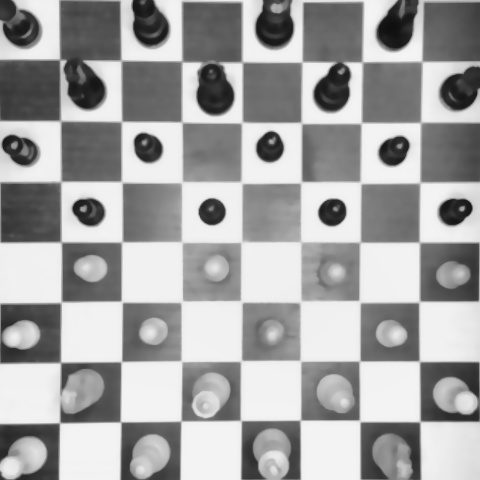
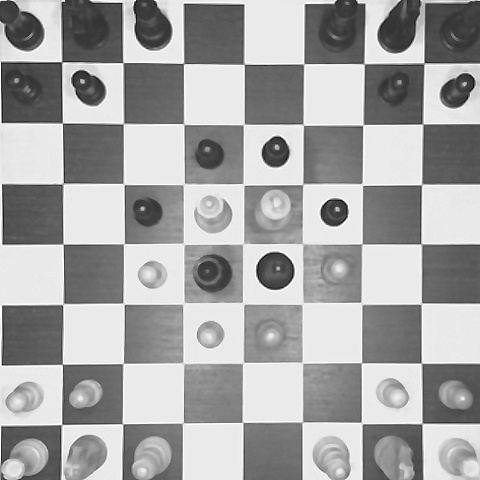
Ajout brightness

diff --git a/vision/ChessCamera.py b/vision/ChessCamera.py
@@ -18,12 +18,13 @@ class ChessCamera(object):
             self.camera = PiCamera()
             self.camera.resolution = (640,480)
             self.camera.iso = CAMERA_ISO
-            self.camera.exposure_compensation = CAMERA_COMP
-            time.sleep(1)
+            self.camera.brightness = CAMERA_BRIGHTNESS
+            #self.camera.exposure_compensation = CAMERA_COMP
+            time.sleep(2)
+            self.camera.exposure_mode = 'off'
             g = self.camera.awb_gains
             self.camera.awb_mode = 'off'
             self.camera.awb_gains = g
-            self.camera.exposure_mode = 'off'
 
         self.IMAGE_PATH = image
 
@@ -156,7 +157,7 @@ class ChessCamera(object):
                     #masked_draw = self.adjust_gamma(masked_draw, 2)
 
                     #thres = self.adjust_gamma(thres, 0.5)
-                    thres = cv2.GaussianBlur(thres, (13,13), 0)
+                    thres = cv2.GaussianBlur(thres, (17,17), 0)
                     _, thres = cv2.threshold(thres, THRESHOLD_BINARY, 255, cv2.THRESH_BINARY)
 
                     if DEBUG and MASK_DRAW:
@@ -180,13 +181,14 @@ class ChessCamera(object):
         kernel_sharpen = np.array([[0,-1,0], [-1,5,-1], [0,-1,0]])
         clahe = cv2.createCLAHE(clipLimit=CLAHE_LIMIT, tileGridSize=(CLAHE_GRID,CLAHE_GRID))
 
-        img = clahe.apply(img)
+        #img = clahe.apply(img)
 
         #img = cv2.normalize(img, img, alpha=50, beta=200, norm_type=cv2.NORM_MINMAX)
         img = cv2.bilateralFilter(img, CANNY_BLUR, 17, 17)
         #img = clahe.apply(img)
-        #img = cv2.filter2D(img, -1, kernel_sharpen)
+        img = cv2.filter2D(img, -1, kernel_sharpen)
         #img = cv2.GaussianBlur(img, (CANNY_BLUR,CANNY_BLUR), 0)
+        #img = cv2.bilateralFilter(img, CANNY_BLUR, 13, 13)
 
         if DEBUG : cv2.imwrite("output/gray.jpg", img)
 

diff --git a/vision/constants.py b/vision/constants.py
@@ -1,35 +1,36 @@
-DEBUG = False
+DEBUG = True
 RUN_ON_PI = True
 
 # BOARD CONSTANTS
 SQUARE_SIZE = 60
 BOARD_SIZE = SQUARE_SIZE * 8
 
-CAMERA_ISO = 600
-CAMERA_COMP = 15
+CAMERA_ISO = 100
+CAMERA_COMP = 0
+CAMERA_BRIGHTNESS = 60
 
 # IMAGE PROCESS
 RESCALE_RATIO = 1.015
 
 CANNY_SIGMA = 0.33
-CANNY_LOWER = 30
-CANNY_UPPER = 120
-CANNY_BLUR = 9
+CANNY_LOWER = 20
+CANNY_UPPER = 100
+CANNY_BLUR = 5
 CANNY_GAMMA = 1
 
 CLAHE_LIMIT = 1.0
-CLAHE_GRID = 4
+CLAHE_GRID = 8
 
-EDGE_DILATE = 6
-EDGE_ERODE = 6
+EDGE_DILATE = 2
+EDGE_ERODE = 2
 
-MASK_DRAW = True
+MASK_DRAW = False
 MASK_BLUR = 9
 MASK_DILATE = 9
 MASK_DILATE_ITER = 1
 MASK_ERODE_ITER = 4
 MASK_COLOR = (0,0,0)
 
-THRESHOLD_PRESENCE = 80
+THRESHOLD_PRESENCE = 100
 THRESHOLD_COLOR = 100
 THRESHOLD_BINARY = 100

diff --git a/vision/test.py b/vision/test.py
@@ -25,6 +25,7 @@ if __name__ == '__main__':
                     time.sleep(1)
             else:
                 current_board = ChessCamera.current_board_processed()
+                ChessCamera.camera.close()
                 printBoard(current_board)
     else:
         print("Usage: test <image> (options: -c calibration)")
